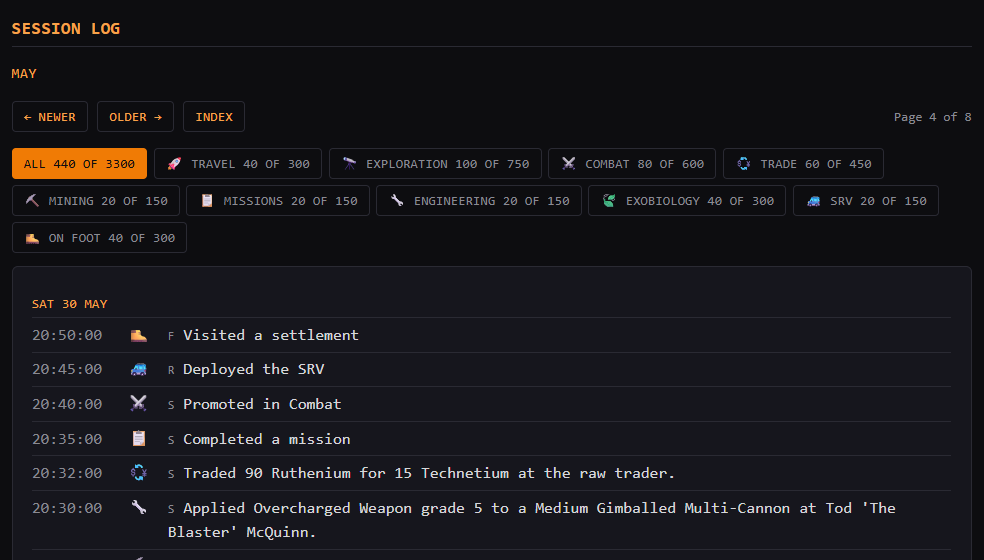
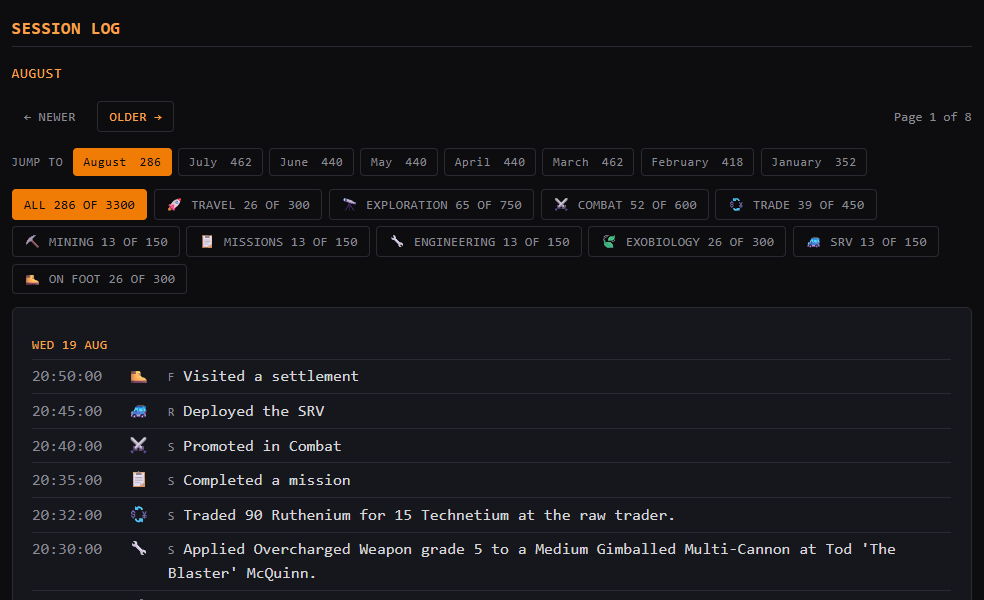
feat: let a history report reach any month in one click
Prev and next alone made an old month a walk through every page in between, and nothing listed which months existed at all. The index now lists every month with its entry count, marking the one being read, and each page links back to that list by anchor so the reader lands on it rather than at the top of a report whose log sits far below. Any month is two clicks from anywhere.

The list stays on the index alone. It gains an entry each new month, so carrying it on every page would rewrite the whole bundle monthly and undo the paging; the index is rewritten on every run regardless. The scale test still shows a short session moving only the index and the stylesheet. The navigation screenshot is retaken from the index so it shows the list, and the example report is regenerated for the new stylesheet rules.

diff --git a/docs/example-report.html b/docs/example-report.html
@@ -148,6 +148,22 @@ footer { color: var(--muted); font-size: 0.8rem; margin-top: 2.5rem;
 .pagetitle { color: var(--accent-soft); font-size: 0.9rem;
   text-transform: uppercase; letter-spacing: 0.04em; margin: 0 0 0.5rem; }
 .emptytab { color: var(--muted); font-style: italic; margin: 0; }
+/* Every month in the history, on the index. It reads as a row of small chips
+   like the tab row above it, so the two scan as one navigation block. */
+.monthlist { display: flex; flex-wrap: wrap; gap: 0.4rem; align-items: baseline;
+  margin: 0 0 0.8rem; }
+.monthlist .monthlabel { color: var(--muted); font-size: 0.78rem;
+  text-transform: uppercase; letter-spacing: 0.04em; margin-right: 0.2rem; }
+.monthlist a, .monthlist .current { padding: 0.25rem 0.6rem;
+  border: 1px solid var(--edge); border-radius: 4px; font-size: 0.78rem;
+  text-decoration: none; letter-spacing: 0.03em; }
+.monthlist a { color: var(--muted); }
+.monthlist a:hover { color: var(--text); border-color: var(--accent-soft); }
+.monthlist a .n, .monthlist .current .n { color: var(--muted);
+  padding-left: 0.35rem; }
+.monthlist .current { background: var(--accent); color: var(--bg);
+  border-color: var(--accent); }
+.monthlist .current .n { color: var(--bg); }
 /* The whole history's counts live here rather than in each page's markup.
    A tab must state the global figure (two here out of thirteen altogether)
    but a figure that grows every session would change the text of all forty

diff --git a/docs/index.html b/docs/index.html
@@ -551,8 +551,8 @@
         <p class="caption">A log covering several days heads each day with its date. A single session shows none and keeps the narrow time column.</p>
       </div>
       <div class="shot">
-        <img src="assets/history-pages.png" loading="lazy" alt="One page of a paged history report, showing the month it covers, the newer, older and index links with the page position beside them, and a row of category tabs each stating how many entries are on this page out of the whole history">
-        <p class="caption">A history report is a set of pages, one per month, with every tab counting the whole history rather than the page.</p>
+        <img src="assets/history-pages.png" loading="lazy" alt="The log section of a history report, showing a jump list linking every month in the history, newer and older links with the page position beside them and a row of category tabs each stating how many entries are on this page out of the whole history">
+        <p class="caption">Every month is one click away and every tab counts the whole history rather than the page.</p>
       </div>
     </section>
 

diff --git a/tests/infrastructure/test_html_bundle_exporter.py b/tests/infrastructure/test_html_bundle_exporter.py
@@ -84,11 +84,12 @@ def test_every_navigation_link_points_at_a_file_in_the_bundle() -> None:
             continue
         here = path.rsplit("/", maxsplit=1)[0] if "/" in path else ""
         for href in re.findall(r'<a href="([^"]+)"', html):
-            resolved = href
-            if href.startswith("../"):
-                resolved = href[len("../") :]
+            # A link may carry the log anchor; the fragment is not a file.
+            resolved = href.split("#", maxsplit=1)[0]
+            if resolved.startswith("../"):
+                resolved = resolved[len("../") :]
             elif here:
-                resolved = f"{here}/{href}"
+                resolved = f"{here}/{resolved}"
             assert resolved in present, f"{path} links missing {href}"
 
 
@@ -100,7 +101,7 @@ def test_the_index_has_no_newer_link_and_the_oldest_has_no_older_one() -> None:
     assert '<span class="disabled">&larr; Newer</span>' in files["index.html"]
     oldest = files[f"pages/{pages[-1].key}.html"]
     assert '<span class="disabled">Older &rarr;</span>' in oldest
-    assert '<a href="../index.html">Index</a>' in oldest
+    assert '<a href="../index.html#log">Index</a>' in oldest
 
 
 def test_a_single_page_history_needs_only_an_index() -> None:
@@ -172,3 +173,37 @@ def test_the_bundle_carries_no_script_of_any_kind() -> None:
     for item in bundle.files:
         assert b"<script" not in item.content
         assert b"javascript:" not in item.content
+
+
+def test_the_index_lists_every_month_as_a_jump_target() -> None:
+    """Stepping through eight pages to reach an old month is not navigation."""
+    bundle, pages = _bundle(spread(_MANY))
+    files = _by_path(bundle)
+    index = files["index.html"]
+
+    assert '<span class="monthlabel">Jump to</span>' in index
+    for page in pages[1:]:
+        assert f'<a href="pages/{page.key}.html">' in index
+        assert page.title in index
+    # The month being read is marked rather than linked to itself.
+    assert f'<span class="current">{pages[0].title}' in index
+
+
+def test_a_page_carries_no_month_list_of_its_own() -> None:
+    """The list gains an entry every month, so carrying it on every page would
+    rewrite the whole bundle monthly. The pages link back to it instead."""
+    bundle, _pages = _bundle(spread(_MANY))
+    files = _by_path(bundle)
+
+    for path, html in files.items():
+        if path.startswith("pages/"):
+            assert "monthlist" not in html
+            assert '<a href="../index.html#log">Index</a>' in html
+
+
+def test_the_index_link_lands_on_the_month_list_not_the_top_of_the_report() -> None:
+    """The log sits below the whole report, so an unanchored link misses it."""
+    bundle, _pages = _bundle(spread(_MANY))
+    files = _by_path(bundle)
+
+    assert '<h2 id="log">Session log</h2>' in files["index.html"]

diff --git a/o7debrief/infrastructure/render/html_bundle_exporter.py b/o7debrief/infrastructure/render/html_bundle_exporter.py
@@ -53,6 +53,10 @@ BUNDLE_DIRECTORY_NAME = "debrief_history"
 
 # The fixed file names inside a bundle.
 _INDEX_FILE = "index.html"
+# The log section's anchor. A page's Index link carries it so the reader lands
+# on the month list rather than at the top of the whole report, which on the
+# index sits a long way above the log.
+_LOG_ANCHOR = "#log"
 _STYLE_FILE = "style.css"
 _PAGES_DIR = "pages"
 
@@ -75,9 +79,27 @@ def _href(from_index: bool, target: int, pages: tuple[LogPage, ...]) -> str:
     reader currently is.
     """
     if target == _NEWEST:
-        return _INDEX_FILE if from_index else f"../{_INDEX_FILE}"
+        return _INDEX_FILE if from_index else f"../{_INDEX_FILE}{_LOG_ANCHOR}"
     path = _page_path(pages[target])
     return path if from_index else path.split("/", maxsplit=1)[1]
+
+
+def _months(pages: tuple[LogPage, ...]) -> list[dict]:
+    """Return every page as a jump target, newest first, for the index.
+
+    A reader wanting a month five pages back should not have to walk through
+    the four in between and the page files carry no such list of their own, so
+    this is what their Index link goes to.
+    """
+    return [
+        {
+            "href": _INDEX_FILE if position == _NEWEST else _page_path(page),
+            "title": page.title,
+            "count": len(page.entries),
+            "current": position == _NEWEST,
+        }
+        for position, page in enumerate(pages)
+    ]
 
 
 def _style_context(context: dict, pages: tuple[LogPage, ...]) -> dict:
@@ -132,9 +154,16 @@ class HtmlBundleExporter:
                 ),
             )
         ]
+        months = _months(pages)
         for position, page in enumerate(pages):
             template = self._index if position == _NEWEST else self._page
-            body = {**context, "page": page.as_dict(), "nav": _nav(position, pages)}
+            body = {
+                **context,
+                "page": page.as_dict(),
+                "nav": _nav(position, pages),
+                # The list is the index's alone; a page links back to it.
+                "months": months if position == _NEWEST else [],
+            }
             files.append(
                 BundleFile(
                     relative_path=(
@@ -150,7 +179,12 @@ class HtmlBundleExporter:
                 BundleFile(
                     relative_path=_INDEX_FILE,
                     content=self._index.render(
-                        **{**context, "page": _EMPTY_PAGE, "nav": _EMPTY_NAV}
+                        **{
+                            **context,
+                            "page": _EMPTY_PAGE,
+                            "nav": _EMPTY_NAV,
+                            "months": [],
+                        }
                     ).encode(_ENCODING),
                 )
             )

diff --git a/o7debrief/infrastructure/render/html_styles.py b/o7debrief/infrastructure/render/html_styles.py
@@ -125,6 +125,22 @@ footer { color: var(--muted); font-size: 0.8rem; margin-top: 2.5rem;
 .pagetitle { color: var(--accent-soft); font-size: 0.9rem;
   text-transform: uppercase; letter-spacing: 0.04em; margin: 0 0 0.5rem; }
 .emptytab { color: var(--muted); font-style: italic; margin: 0; }
+/* Every month in the history, on the index. It reads as a row of small chips
+   like the tab row above it, so the two scan as one navigation block. */
+.monthlist { display: flex; flex-wrap: wrap; gap: 0.4rem; align-items: baseline;
+  margin: 0 0 0.8rem; }
+.monthlist .monthlabel { color: var(--muted); font-size: 0.78rem;
+  text-transform: uppercase; letter-spacing: 0.04em; margin-right: 0.2rem; }
+.monthlist a, .monthlist .current { padding: 0.25rem 0.6rem;
+  border: 1px solid var(--edge); border-radius: 4px; font-size: 0.78rem;
+  text-decoration: none; letter-spacing: 0.03em; }
+.monthlist a { color: var(--muted); }
+.monthlist a:hover { color: var(--text); border-color: var(--accent-soft); }
+.monthlist a .n, .monthlist .current .n { color: var(--muted);
+  padding-left: 0.35rem; }
+.monthlist .current { background: var(--accent); color: var(--bg);
+  border-color: var(--accent); }
+.monthlist .current .n { color: var(--bg); }
 /* The whole history's counts live here rather than in each page's markup.
    A tab must state the global figure (two here out of thirteen altogether)
    but a figure that grows every session would change the text of all forty

diff --git a/o7debrief/infrastructure/render/html_bundle_templates.py b/o7debrief/infrastructure/render/html_bundle_templates.py
@@ -46,10 +46,30 @@ _NAV = """  <div class="pagenav">
 # The tabbed log for one page. Every tab states the whole history's count and
 # how many of those are here, so a reader is never left wondering whether a
 # figure describes this page or the lot.
-_LOG = """  <h2>Session log</h2>
+# Every month in the history, as a link. It is rendered on the index alone and
+# the pages link back to it by anchor, so reaching any month is two clicks from
+# anywhere rather than a walk through every page in between. Keeping it off the
+# pages is deliberate: the list gains an entry each new month, so carrying it on
+# all of them would rewrite the whole bundle monthly, which is the churn the
+# paging exists to avoid. The index is rewritten on every run regardless.
+_MONTHS = """  {% if months %}
+  <div class="monthlist">
+    <span class="monthlabel">Jump to</span>
+    {% for month in months %}
+    {% if month.current %}<span class="current">{{ month.title }}
+      <span class="n">{{ month.count }}</span></span>
+    {% else %}<a href="{{ month.href }}">{{ month.title }}
+      <span class="n">{{ month.count }}</span></a>{% endif %}
+    {% endfor %}
+  </div>
+  {% endif %}
+"""
+
+_LOG = """  <h2 id="log">Session log</h2>
   <p class="pagetitle">{{ page.title }}</p>
 """
 _LOG += _NAV
+_LOG += _MONTHS
 _LOG += """  <input type="radio" name="logtab" id="logtab-all"
     class="logtabs-radio" checked>
   {% for cat in page.categories %}

diff --git a/ARCHITECTURE.md b/ARCHITECTURE.md
@@ -181,6 +181,7 @@ Rank handling reflects what the journal can actually tell us. A `Promotion` (a t
 | Session isolation by `Shutdown` bracketing. | A session is one game run, bounded by `Shutdown` events; the latest is the run ending at the last `Shutdown`. Anchoring on `Shutdown` rather than `LoadGame` keeps a run that returned to the main menu (which fires a fresh `LoadGame`) whole. Defining it structurally means a previous session can never bleed into the current debrief. | Heuristic session boundaries, time-window guesses and shrinking a run to its final leg by anchoring on `LoadGame`. |
 | A history report paged into a bundle, not accumulated into one document. | A history report is regenerated every time the game closes and grows for ever, so one document eventually stops being openable and is rewritten whole on every quit. Splitting it into an index and a page per month, with one shared stylesheet rather than the palette repeated on every page, keeps each page small and lets an unchanged page be left alone. The session report is deliberately exempt: it is small, and being able to hand somebody the whole file is the point of it. | A single history document that grows without limit; a bundle for the session report, which would cost its portability for nothing. |
 | Pages keyed on the period they cover, filled from the oldest row. | A page named for its position renumbers the moment a page is added at the newest end, so the first session of a new month would rewrite every file in the bundle. A calendar month never changes once it is over, so a page keyed on it keeps its name for good, and filling a month from its oldest row forward means only its newest part can move. That is what makes the incremental write worth having: the boundaries are deterministic, so identical bytes really are identical. | Position-numbered pages; paging by a fixed count from the newest entry, which shifts every boundary each time the newest page grows. |
+| The month list on the index alone, with the pages anchored back to it. | Prev and next on their own make an old month a walk through every page in between, which is not navigation. A list of every month fixes that but it gains an entry each new month, so carrying it on every page would rewrite the whole bundle monthly and undo the paging. The index is rewritten on every run regardless, so the list lives there and each page links back to it by anchor, landing the reader on the list rather than at the top of a report whose log sits far below. Any month is then two clicks from anywhere. | A month list duplicated onto every page; navigation that only steps one page at a time; an index link that drops the reader above the whole report and leaves them scrolling. |
 | The whole history's tab counts held in the stylesheet, not in each page. | A tab has to state the figure for the whole history rather than for the page, or a reader cannot tell thirteen here from thirteen altogether. That figure changes on every session, so writing it into each page's markup would rewrite forty pages a quit and undo the paging. The stylesheet is one small file already rewritten on each run, so the counts are generated content in it and the pages carry only what is on them. It stays CSS, so the bundle still needs no JavaScript. | Per-page counts, which mislead; global counts in page markup, which defeat the incremental write; a script to fill them in, which the whole product rules out. |
 | A rollup that bounds the report, offered but not imposed. | Paging divides a report; it does not bound it, so a journal gaining a thousand rows a month gains a page a month for ever. Folding the older tail into one row per day per category is the only option here that bounds the total, and it does so by discarding detail, which is why it is off by default and the report says what it dropped. Its threshold is measured back from the newest row rather than from the wall clock, so an unchanged journal renders identically tomorrow and no page is rewritten by the passage of time alone. | An unbounded report; a rollup imposed on a reader who wanted the detail; a threshold anchored to "now", which would silently re-cut the same journal every day. |
 | Reads bounded to the session, not the journal history. | A debrief is a function of one session's bytes, so reading the entire journal to produce one was waste that grew without limit as a Commander's logs piled up. The last-session read walks back only to the previous `Shutdown`, the all-history read streams file by file and the background recorder keeps only the current session. | Loading the whole journal history into memory for a debrief; an always-on watcher whose memory grows with uptime. |

diff --git a/README.md b/README.md
@@ -39,7 +39,7 @@ macOS is not supported.
 
 - Live background watcher that follows the active Journal with a low-frequency modification-time poll (no `watchdog` dependency) and automatically generates a debrief on `Shutdown`, with a crash-timeout safety net for sessions that end without a clean shutdown.
 - Cold one-shot mode: "Debrief my last session" reads the most recent session while "Debrief my history to date" covers everything you have played so far; both produce a report even if o7 Debrief was not running while you played.
-- A history report that stays readable as it grows. Years of play would make one HTML document too large to open, so the history debrief is written as a small static bundle instead: an index carrying the report and the newest month of the log, one page per calendar month beneath it and a single shared stylesheet. It opens from your own filesystem with no server and no scripts, and prev, next and index links reach every page. It is regenerated every time you quit the game and only the pages whose contents actually changed are rewritten, so a four-minute session touches the index and nothing else.
+- A history report that stays readable as it grows. Years of play would make one HTML document too large to open, so the history debrief is written as a small static bundle instead: an index carrying the report and the newest month of the log, one page per calendar month beneath it and a single shared stylesheet. It opens from your own filesystem with no server and no scripts. The index lists every month in the history, so any of them is one click away rather than a walk through the pages in between; each page carries newer and older links and one back to that list. It is regenerated every time you quit the game and only the pages whose contents actually changed are rewritten, so a four-minute session touches the index and nothing else.
 - Light on resources: o7 Debrief reads only the events each debrief needs rather than the whole journal, so it stays small and quiet in the background no matter how many years of logs you have. A last-session debrief reads back only as far as the previous session; the all-history report streams the journal file by file; the live watcher keeps only the session in progress.
 - A home screen on a left-click of the tray icon: the live status, the two debrief actions and the reports generated this run, all in one place. A right-click opens the full tray menu. On a desktop that draws no tray the home screen opens by itself, and launching o7 Debrief while it is already running opens that same home screen instead of starting a second copy, so the app is reachable whether or not there is a tray to put an icon in.
 - Session isolation: the latest session is the run bounded by `Shutdown` events (the run ending at the last `Shutdown`), with every `LoadGame` inside it kept, so a previous session never bleeds into the current one.
